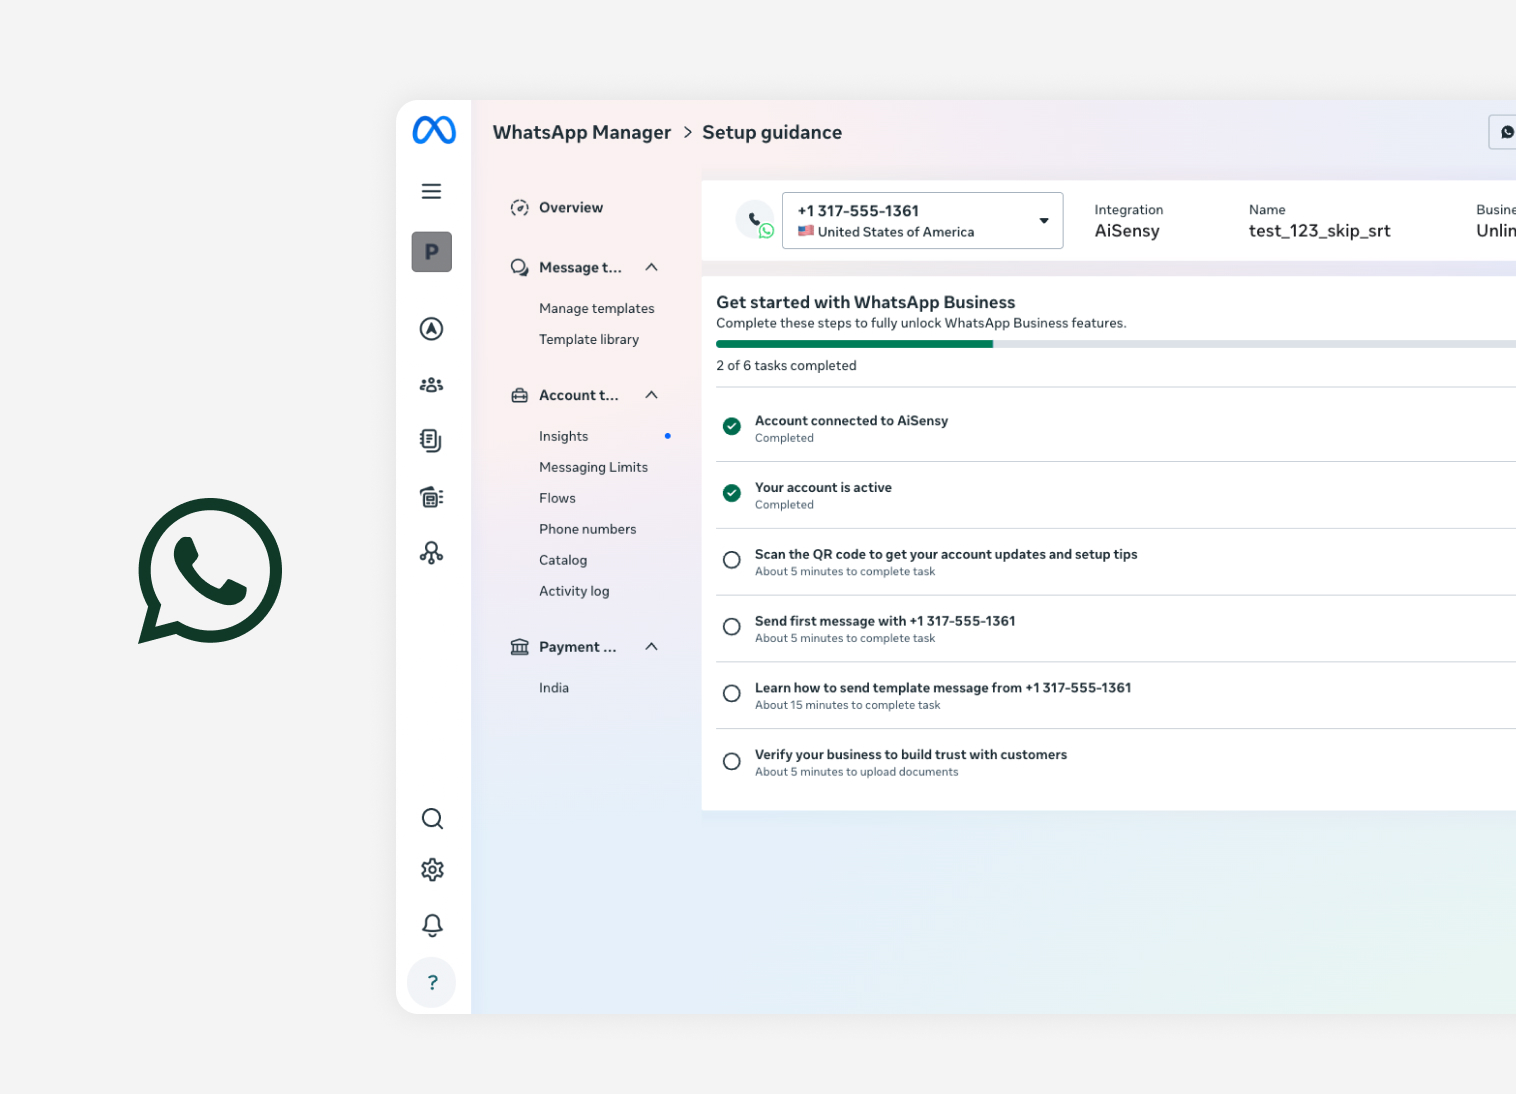
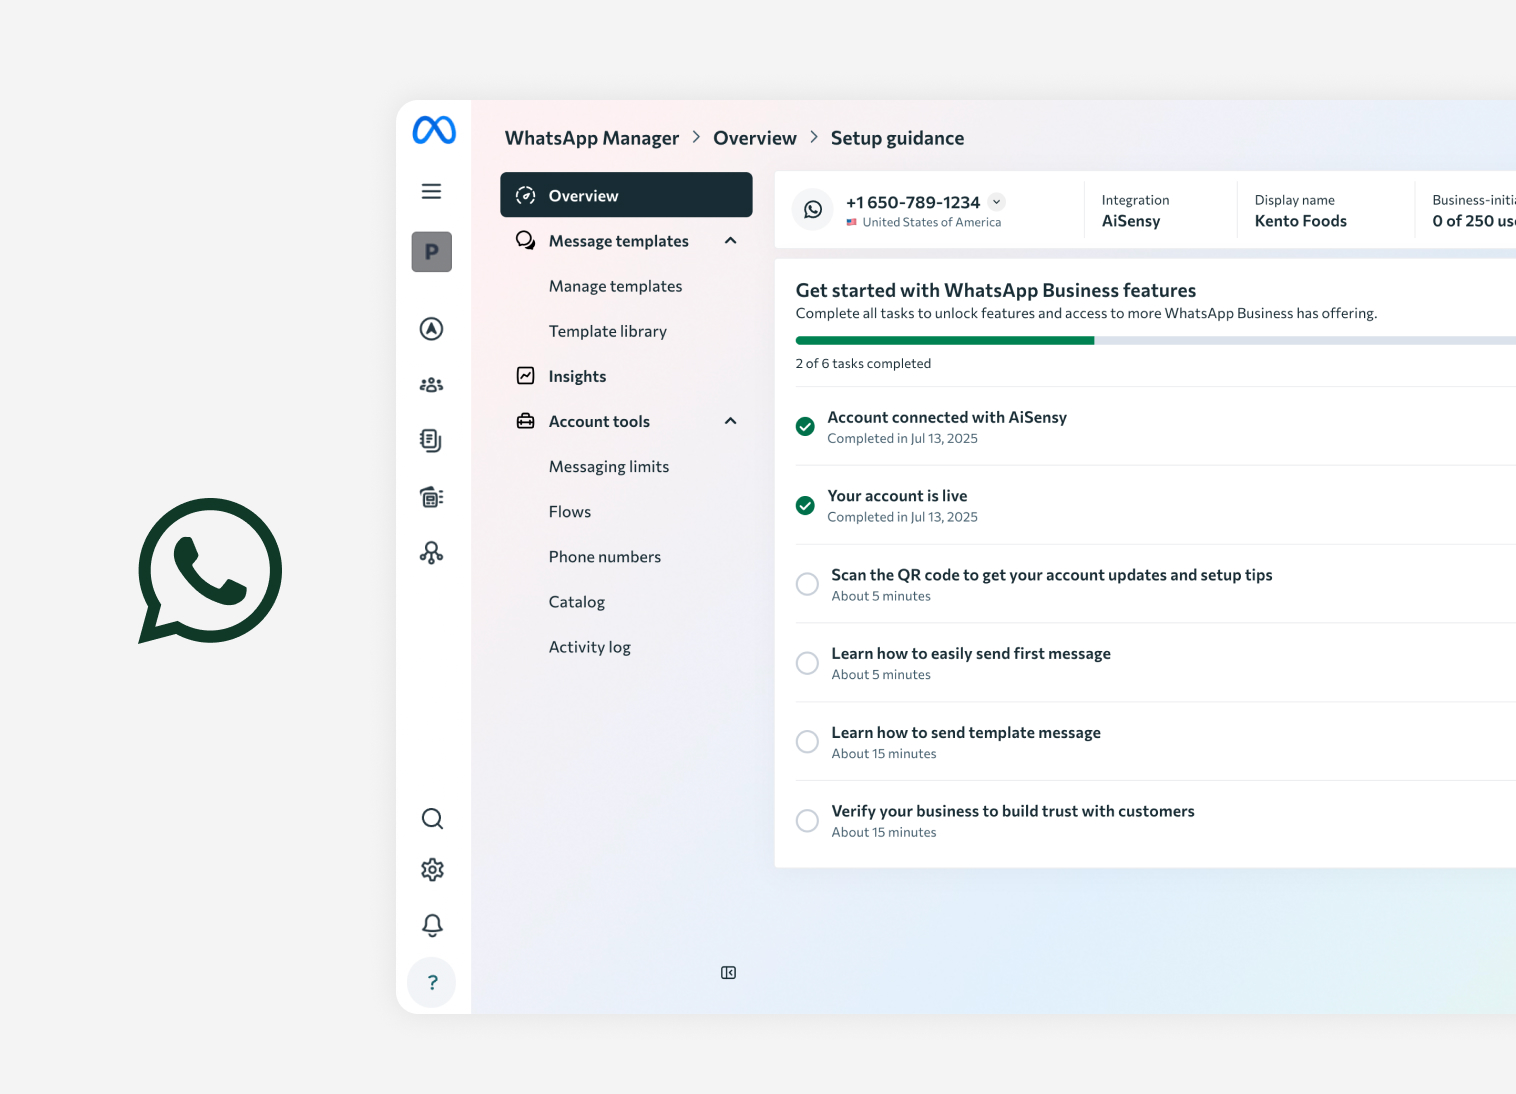
Day 1 Adoption case study, card data, index, 13.jpg

diff --git a/projects/setupguide.html b/projects/setupguide.html
@@ -5,7 +5,7 @@
     <meta name="viewport" content="width=device-width,initial-scale=1.0">
     <meta http-equiv="Content-Type" content="text/html; charset=utf-8" />
     <meta charset="UTF-8">
-    <title>Onboarding for WhatsApp Partner Platforms</title>
+    <title>Day 1 Adoption for WhatsApp Business</title>
 
     <!-- All -->
     <meta property="og:title" content="Mujiun | UX Designer" />
@@ -190,7 +190,7 @@
 
       body.new-layout.article .g-1w,
       body.new-layout.article .content .g-1w {
-        width: 108%;
+        width: 115%;
         max-width: none;
         margin-left: -4%;
         padding: 0;
@@ -473,7 +473,7 @@
         <a href="#03">Discover Problems</a>
         <a href="#04">Clarify Ambiguity</a>
         <a href="#05">Shape Solutions</a>
-        <a href="#06">Design Exploration</a>
+        <a href="#06">Measurement</a>
         <a href="#07">Impact &amp; Learning</a>
     </nav>
 
@@ -484,8 +484,8 @@
     <div class="main-content">
     <div class="head">
         <div class="text">
-            <h1>Onboarding for WhatsApp Partner Platforms</h1>
-            <h6>0-1 Product, Standardized Setup Path</h6>
+            <h1>Day 1 Adoption for WhatsApp Business</h1>
+            <h6>0-1 Product, Framework to Impact</h6>
         </div>
         <div class="block"><div class="part-title">Overview</div></div>
         <div class="g-1w"><a class="gallery" href="images/10/1.jpg"><img src="images/10/1.jpg"></a></div>
@@ -533,7 +533,7 @@
         <div class="part2" id="02">
             <div class="part">
                 <div class="block"><div class="part-title">Context</div></div>
-                <p>Strategic partner plays a critical role for ecosystem growth. Over millions of businesses use WhatsApp on partner platforms like AiSensy, Twilio to manage their customers. However, after signup, <b>60% of businesses fail to complete WhatsApp setup</b>, leaving all or partial of WhatsApp features not accessible and creating a <b>$XM revenue gap</b>.</p>
+                <p>Strategic partner plays a critical role for ecosystem growth. Over millions of businesses use WhatsApp on partner platforms like AiSensy, Twilio to manage their customers. However, after signup, <b>only 9% of businesses became the paid businesses</b>, indicating the adoption an <b>$XM revenue gap</b>.</p>
                 <div class="g-1w"><a class="gallery" href="images/10/2.jpg"><img src="images/10/2.jpg"></a></div>
             </div>
         </div>
@@ -543,7 +543,6 @@
             <div class="part">
                 <div class="block"><div class="part-title">Discover Problems</div></div>
                 <p>Integration with partner platforms requires multiple and sequential setup steps. Most users prefer <b>step-by-step guidance</b> to complete the setup. However, research shows that <b>90% of WhatsApp partners offer hub-and-spoke guide</b>, creating integration challenges.</p>
-                <p class="feedback">*9 out of top 10 partners lack linear setup guidance</p>
                 <div class="g-1w"><a class="gallery" href="images/10/3.jpg"><img src="images/10/3.jpg"></a></div>
             </div>
         </div>
@@ -565,22 +564,13 @@
                 <p>To drive clarity on setup steps, I <b>led cross-functional efforts</b> with internal and partner teams to map the <b>end-to-end setup journey</b>.</p>
                 <div class="g-1w"><a class="gallery" href="images/10/5.jpg"><img src="images/10/5.jpg"></a></div>
                 <br><br>
-                <p>Through cross-disciplinary research, we identified insights that informed key decisions:</p>
+                <p>From research, I've identified 3 problem layers that drove adoption down, and one framework to solve it. 3 problems I found:</p>
                 <ul>
-                    <li><b>Sequence:</b> Account &rarr; tool testing (two core tools) &rarr; profile setup</li>
-                    <li><b>Minimum path:</b> 6 tasks required to complete account setup and testing</li>
-                    <li><b>User preference:</b> Less experienced users prefer a linear guide over multiple options</li>
+                    <li><b>Friction shifted, not solved:</b> Teams optimized their own stage, pushing frictions to other stages.</li>
+                    <li><b>Scattered drop-offs:</b> Users dropped across many steps, so no single fix could lift conversion.</li>
+                    <li><b>Gap after onboarding:</b> Meta&rsquo;s support ended at onboarding, but adoption happened after.</li>
                 </ul>
                 <div class="g-1w"><a class="gallery" href="images/10/6.jpg"><img src="images/10/6.jpg"></a></div>
-                <br>
-                <h3>Ownership of Building Guidance</h3>
-                <table>
-                    <tr><th></th><th>Build by Meta</th><th>Build by partners (800+)</th></tr>
-                    <tr><td><b>Timeline</b></td><td>3 months</td><td>6-12 months</td></tr>
-                    <tr><td><b>Pros</b></td><td>Unified, accessible guide</td><td>Native experience on partner platforms</td></tr>
-                    <tr><td><b>Cons</b></td><td>Hosted on Meta surface</td><td>Risk of inconsistency or deprioritization</td></tr>
-                    <tr><td><b>Decision</b></td><td colspan="2">&#10003; MVP built on Meta surface — Partners embed the Meta-owned setup guide</td></tr>
-                </table>
             </div>
         </div>
 
@@ -588,49 +578,40 @@
         <div class="part5" id="05">
             <div class="part">
                 <div class="block"><div class="part-title">Shape Solutions</div></div>
-                <h3>My Design Process</h3>
+                <h3>Defined scope for MVP</h3>
                 <p>For 0&rarr;1 projects, I typically run <b>rapid concept ideation</b> to align leadership and scope the project with the team.</p>
                 <br>
-                <h3>Setup Guide Patterns</h3>
-                <p>Designed step-by-step structure to meet user needs</p>
-                <div class="g-1w"><a class="gallery" href="images/10/7.jpg"><img src="images/10/7.jpg"></a></div>
-                <br>
-                <h3>End-to-End Flow/Tasks</h3>
-                <p>Turned insights into product experience.</p>
+                <h3>MVP Tasks</h3>
+                <p>Turned adoption framework into 6 tasks, focused on day 1 activation.</p>
                 <div class="g-1w"><a class="gallery" href="images/10/18.jpg"><img src="images/10/18.jpg"></a></div>
                 <br>
+                <h3>Page Design</h3>
+                <p>Guidance page designed for efficiency and to avoid overload.</p>
+                <div class="g-1w"><a class="gallery" href="images/10/13.jpg"><img src="images/10/13.jpg"></a></div>
+                <br>
+                <h3>Grouping and Content</h3>
+                <p>Design considerations to drive adoption goal.</p>
+                <div class="g-1w"><a class="gallery" href="images/10/11.jpg"><img src="images/10/11.jpg"></a></div>
+                <br>
                 <h3>Placement</h3>
-                <p>Strategy of different placement on Meta site vs. embedded on partner platforms for MVP (3 months) and long-term visions</p>
-                <div class="g-1w"><a class="gallery" href="images/10/8.jpg"><img src="images/10/8.jpg"></a></div>
+                <p>Built on Meta's surface to move fast.</p>
+                <div class="g-1w"><a class="gallery" href="images/10/12.jpg"><img src="images/10/12.jpg"></a></div>
                 <br>
                 <h3>Navigation</h3>
-                <p>Streamlined 5 entry points + 5 destinations across Meta, partner tools</p>
+                <p>Directed businesses from 800+ partner platforms and 3 communication channels to one guide</p>
                 <div class="g-1w"><a class="gallery" href="images/10/9.jpg"><img src="images/10/9.jpg"></a></div>
             </div>
         </div>
 
-        <!-- Design Exploration -->
+        <!-- Measurement -->
         <div class="part6" id="06">
             <div class="part">
-                <div class="block"><div class="part-title">Design Exploration</div></div>
-                <p>The setup guide design was critical to project success, requiring deeper exploration of <b>layout, interactions, task grouping, and sequencing</b> to ensure an effective experience.</p>
-                <br>
-                <h3>Design Principles</h3>
-                <p>Defined by key user needs and technical constraints.</p>
-                <div class="g-1w"><a class="gallery" href="images/10/10.jpg"><img src="images/10/10.jpg"></a></div>
-                <br>
-                <h3>Layout</h3>
-                <p>Defined by key user needs and technical constraints.</p>
-                <div class="g-1w"><a class="gallery" href="images/10/11.jpg"><img src="images/10/11.jpg"></a></div>
-                <br>
-                <h3>Task Grouping</h3>
-                <p>Defined by key user needs and technical constraints.</p>
-                <div class="g-1w"><a class="gallery" href="images/10/12.jpg"><img src="images/10/12.jpg"></a></div>
-                <br>
-                <h3>Task Options</h3>
-                <div class="g-1w"><a class="gallery" href="images/10/13.jpg"><img src="images/10/13.jpg"></a></div>
+                <div class="block"><div class="part-title">Measurement</div></div>
+                <table>
+                    <tr><th style="width:50%;white-space:normal;border-right:1px solid rgba(67,67,67,0.1);">Ship goals (what had to be true to launch)</th><th>Learning goals (what we wanted to understand)</th></tr>
+                    <tr><td style="width:50%;white-space:normal;border-right:1px solid rgba(67,67,67,0.1);"><ul style="margin:0;padding-left:18px;"><li>Guidance page usage: 5%</li><li>Adoption rate: 2%</li><li>Revenue impact: &gt;0%</li></ul></td><td><ul style="margin:0;padding-left:18px;"><li>Conversion by entry point (5 entry points)</li><li>Task completion rate</li><li>Turnaround time to complete tasks</li></ul></td></tr>
+                </table>
             </div>
-
         </div>
 
         <!-- Impact & Learning -->
@@ -638,7 +619,7 @@
             <div class="part">
                 <div class="block"><div class="part-title">Impact &amp; Learning</div></div>
                 <h3>Impact</h3>
-                <p>Achieving exceeding goals</p>
+                <p>Achieved exceeding goals and positive feedback to secure more resources in 2026+.</p>
                 <div class="g-1w"><a class="gallery" href="images/10/15.jpg"><img src="images/10/15.jpg"></a></div>
                 <br>
                 <p>Drove knowledge alignment on end-to-end business journey</p>

diff --git a/js/projects-data.js b/js/projects-data.js
@@ -7,8 +7,8 @@ const PROJECTS = [
     url: 'projects/setupguide.html',
     img: 'images/13.jpg',
     company: 'Meta · Business Tool',
-    title: 'Onboarding for WhatsApp Partner Platforms',
-    summary: 'Landed a new product leading to +9% onboarding completion and +19.7% revenue.',
+    title: 'Day 1 Adoption for WhatsApp Business',
+    summary: 'Defined an adoption framework that drove +9% adoption and +19.7% revenue.',
     filters: ['business', 'developer', 'framework', 'funnel'],
   },
   {

diff --git a/index.html b/index.html
@@ -106,7 +106,7 @@
       font-family: var(--font);
       font-size: 15px;
       font-weight: 400;
-      color: var(--ink2);
+      color: var(--ink3);
       line-height: 1.6;
       max-width: 460px;
       margin-bottom: 12px;
